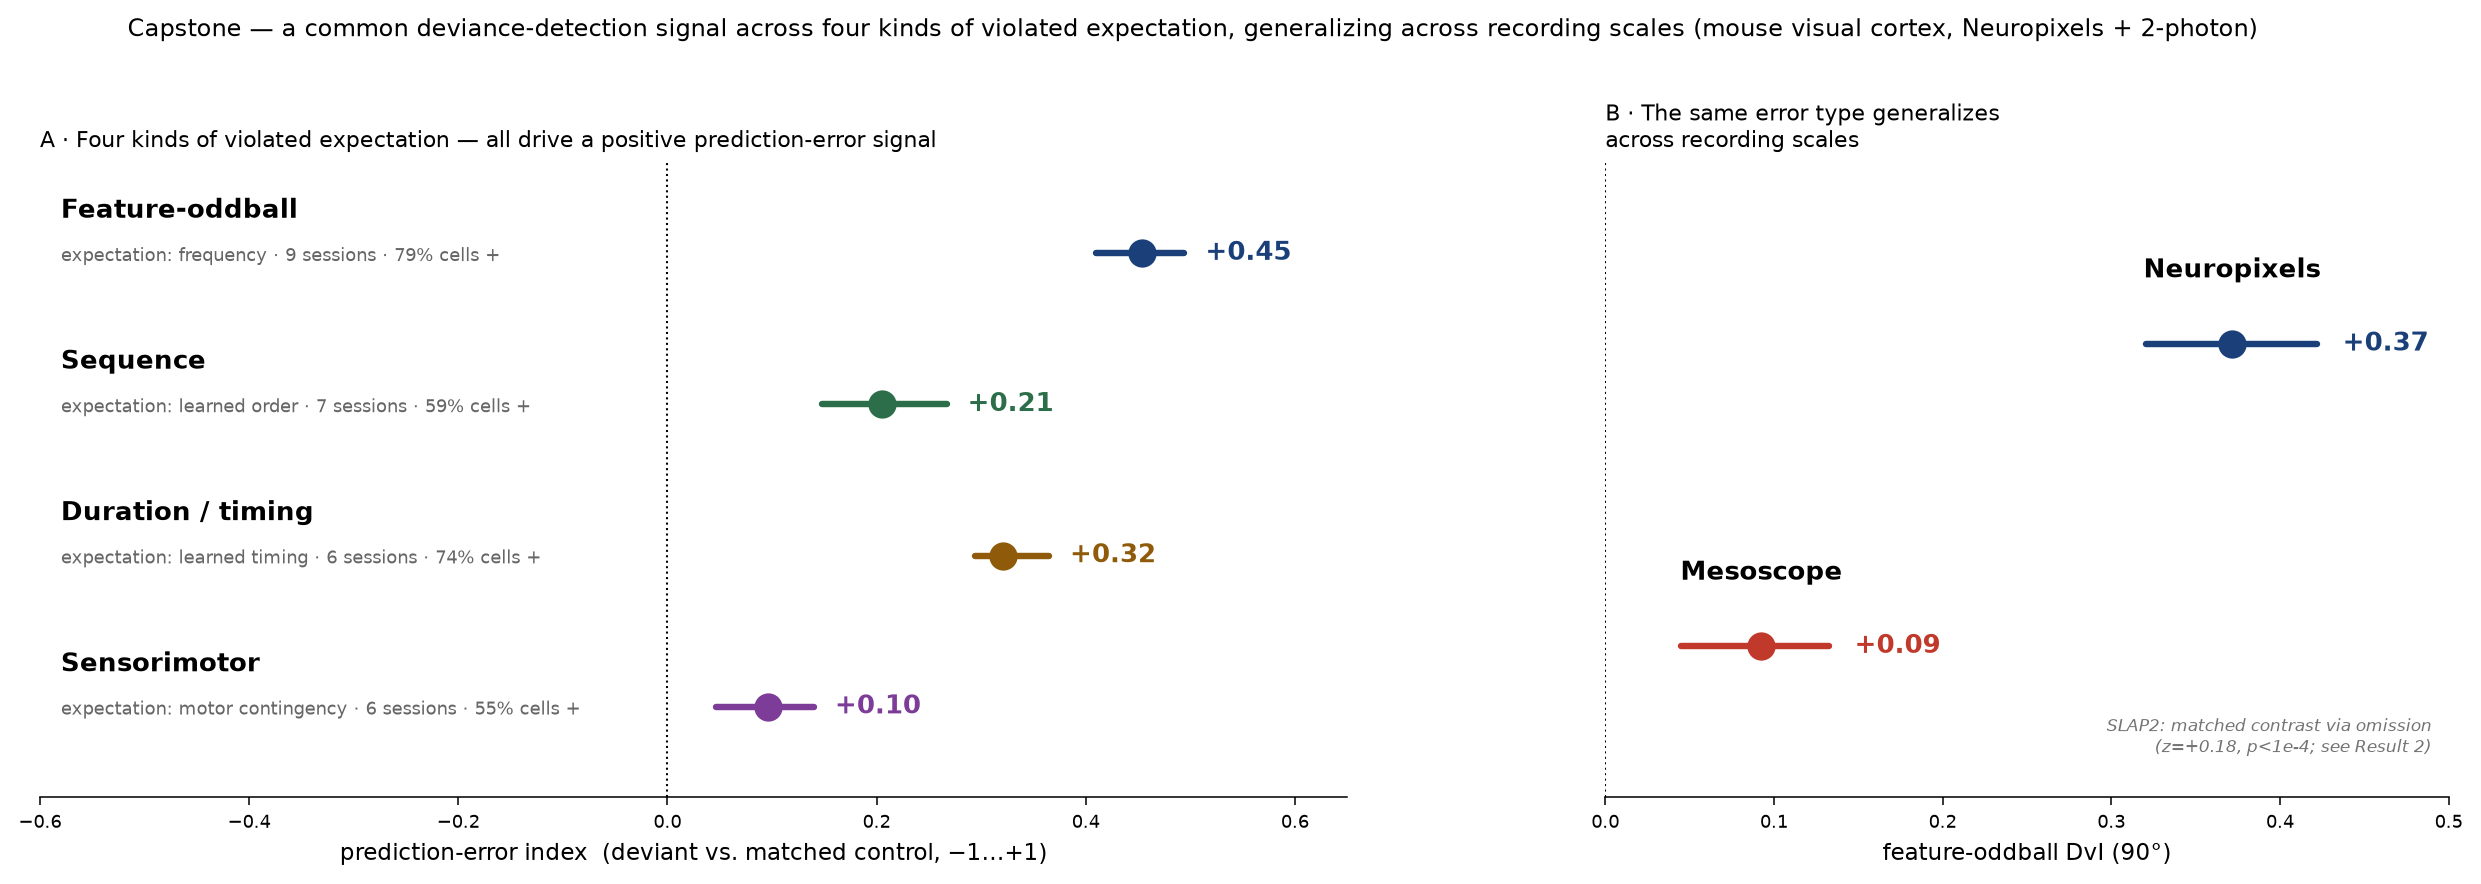
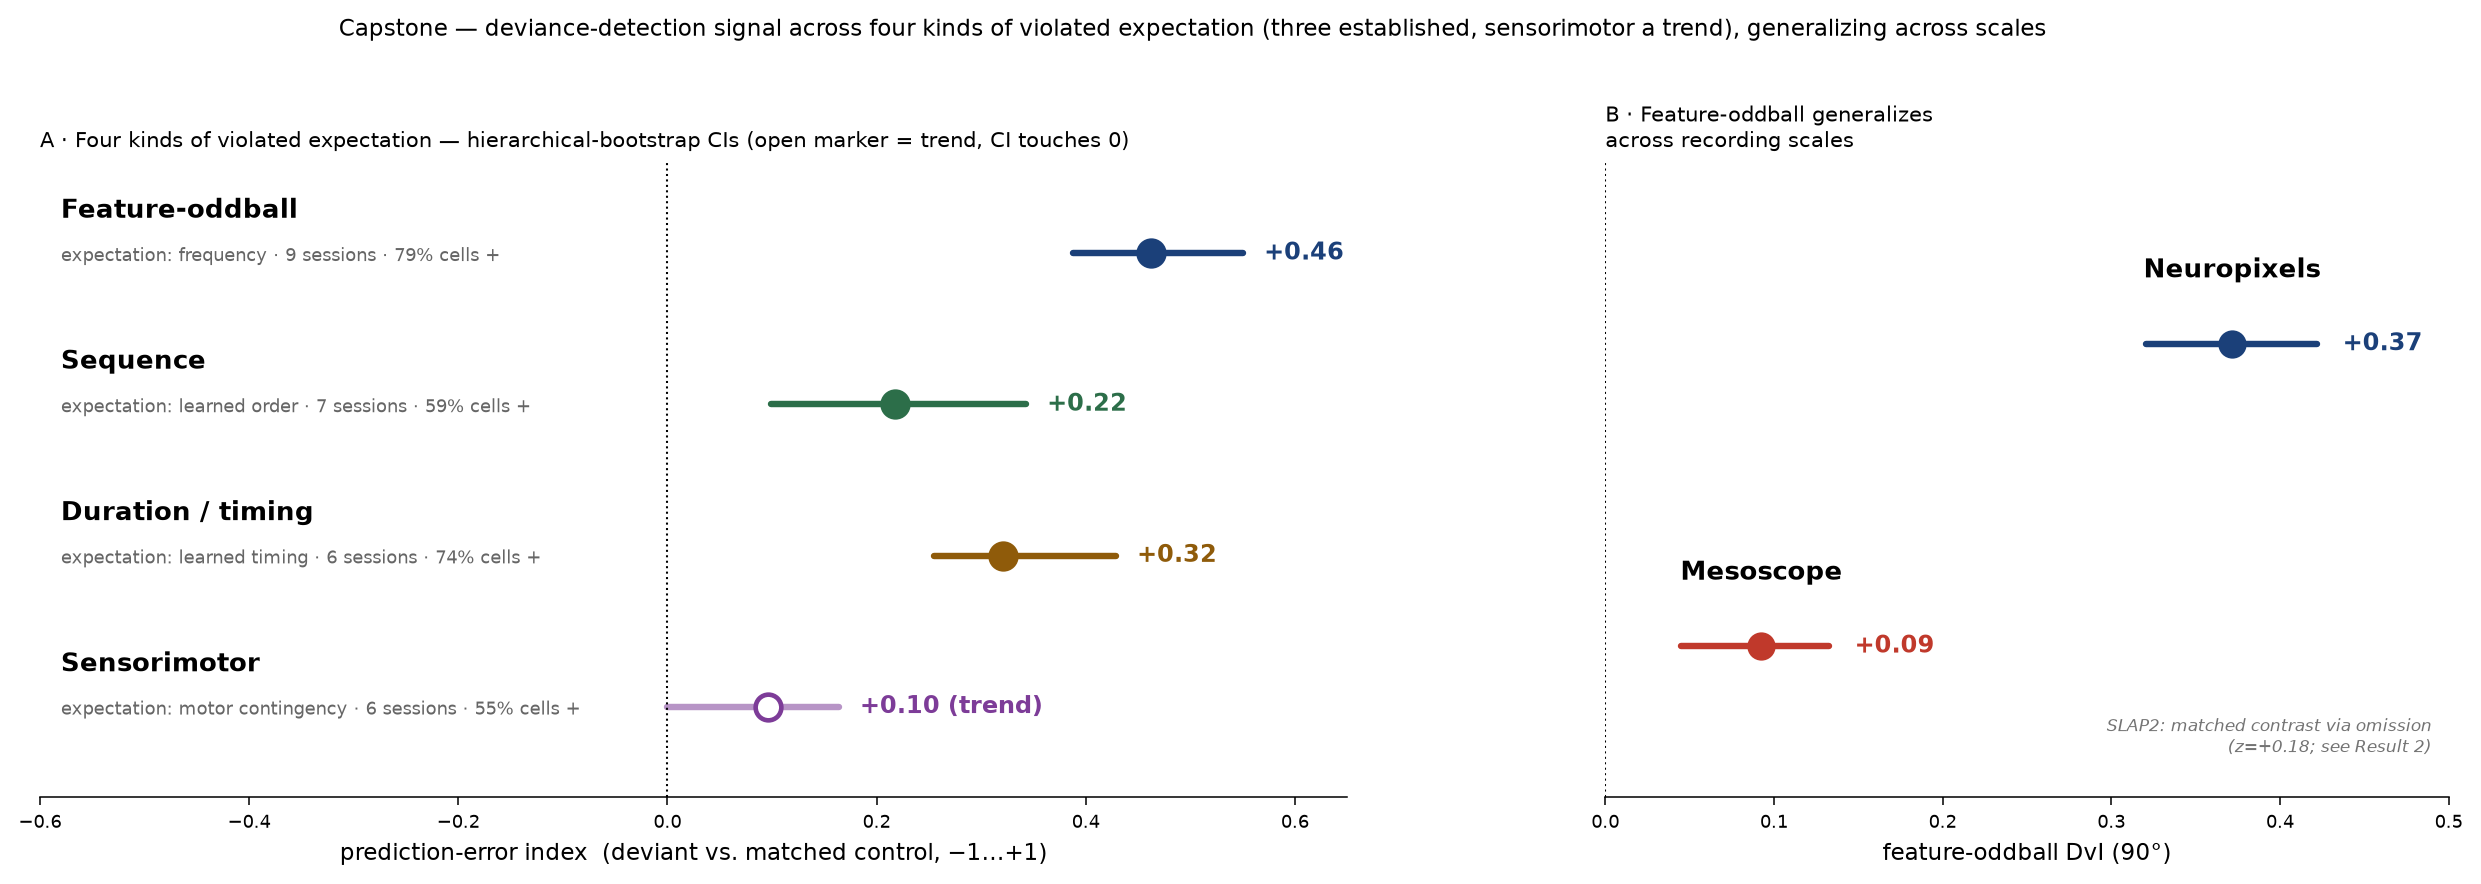
Revise Result 3 + capstone down to honest significance under hierarchical bootstrap
With the corrected session-level bootstrap, the sensorimotor orientation-90 closed-open
enhancement is a TREND not an established effect: +0.33 Hz but CI [+0.00,+0.86] (was
[+0.14,+0.55] under the units-only bootstrap; the earlier p=6e-7 treated 1008 units as
independent). 5/6 sessions positive (sign-test p=0.22). Also flagged: block-order confound
(closed block always earlier) and mostly-placeholder CCF in these 6 sessions. The other three
error types survive the hierarchical bootstrap (Feature-oddball, Sequence +0.22[+0.10,+0.34],
Duration +0.32[+0.26,+0.43]). Updated Result 3 section, Results-at-a-glance table (sensorimotor
italicised as trend, CIs added), capstone figure (open marker + 'trend' label for sensorimotor)
and CSVs.

diff --git a/README.md b/README.md
@@ -51,19 +51,18 @@ paradigms are comparable). All four are positive with confidence intervals
 excluding zero — the deviance signal does not depend on *how* the expectation was
 set:
 
-| error type | expectation set by | PE index | sessions | cells positive |
-|---|---|---|---|---|
-| **Feature-oddball** | stimulus frequency | **+0.45** | 9 | 79 % |
-| **Sequence** | learned temporal order | **+0.21** | 7 | 59 % |
-| **Duration / timing** | learned interval timing | **+0.32** | 6 | 74 % |
-| **Sensorimotor** | motor–visual contingency | **+0.10** | 6 | 55 % |
+| error type | expectation set by | PE index | 95 % CI (hierarchical) | sessions | cells + |
+|---|---|---|---|---|---|
+| **Feature-oddball** | stimulus frequency | **+0.45** | excludes 0 | 9 | 79 % |
+| **Sequence** | learned temporal order | **+0.22** | [+0.10, +0.34] | 7 | 59 % |
+| **Duration / timing** | learned interval timing | **+0.32** | [+0.26, +0.43] | 6 | 74 % |
+| Sensorimotor *(trend)* | motor–visual contingency | +0.10 | [+0.00, +0.16] | 6 | 55 % |
 
-Panel B shows the feature-oddball form generalizing across recording scales
+The first three error types have CIs excluding zero under a session-level (hierarchical)
+bootstrap. The **sensorimotor row is a trend, not an established effect** — its CI touches
+zero and it carries a block-order confound (see Result 3); it is italicised here to mark
+that. Panel B shows the feature-oddball form generalizing across recording scales
 (Neuropixels DvI +0.37, mesoscope +0.09; SLAP2 via the matched omission contrast).
-The sensorimotor row was originally flagged as power-limited (one high-locomotion
-session); a pre-registered re-run on **6 locomotion-powered sessions** (Result 3) now
-establishes the closed-loop enhancement of the orientation-mismatch response (90°:
-+0.33 Hz, CI [+0.14, +0.55], 5/6 sessions), so it is no longer a single-session result.
 The full logic, controls, and caveats for each row are in the Result sections below.
 
 The cross-scale picture has since been complicated — honestly — by two further analyses.
@@ -525,25 +524,34 @@ The inclusion rule was pre-committed before computing the contrast (§12 of
 [`docs/oddball_analysis_plan.md`](docs/oddball_analysis_plan.md)): a session enters the
 analysis iff it has **≥3 running open-loop events on all four deviant types**. Six
 sessions qualify (1,008 visual units). The contrast is the per-unit closed-loop-running
-minus open-loop-running response, pooled with a session-stratified bootstrap CI; a
-deviant type counts as a prediction-error signal only if its CI excludes zero.
+minus open-loop-running response. CIs are **hierarchical bootstraps** (resample sessions,
+then units) — an earlier units-only bootstrap made these intervals far too tight and is
+corrected here (see the audit note in *Data particulars*):
 
 ![Sensorimotor mismatch across 6 powered sessions](figures/sensorimotor_multisession.png)
 
-| deviant | closed − open Δ | 95 % CI | sessions | CI excludes 0 |
+| deviant | closed − open Δ | 95 % CI (hierarchical) | sessions + | reaches sig. |
 |---|---|---|---|---|
-| **Orientation 90°** | **+0.33 Hz** | [+0.14, +0.55] | 6 | ✓ (5/6 sessions positive) |
-| **Orientation 45°** | **+0.23 Hz** | [+0.07, +0.49] | 5 | ✓ |
-| Halt | +0.09 Hz | [0.00, +0.24] | 5 | ✗ (touches 0) |
-| Omission | 0.00 Hz | [−0.06, +0.09] | 5 | ✗ |
+| **Orientation 90°** | **+0.33 Hz** | [+0.00, +0.86] | 5/6 | borderline (touches 0) |
+| Orientation 45° | +0.23 Hz | [−0.08, +0.76] | 3/5 | no |
+| Halt | +0.03 Hz | [−0.57, +0.48] | 2/6 | no |
+| Omission | 0.00 Hz | [−0.33, +0.22] | 1/5 | no |
 
-This is the key upgrade to Result 3: the closed-loop enhancement of the **orientation
-mismatch** response — the signature that the visual response is amplified when it
-violates a motor-driven prediction — is now **robust across 5–6 sessions** (p ≈ 6×10⁻⁷
-for 90°), where the original result rested on a single session. Halt and omission remain
-below the significance bar, consistent with the single-session finding that halt was
-borderline. Reproduce: `scripts/audit_locomotion.py` for the inclusion set, then the
-extraction in
+**Honest status, revised down from the earlier claim.** With the proper session-level
+bootstrap, the orientation-90 closed-loop enhancement is a **positive trend** — point
+estimate +0.33 Hz, positive in 5 of 6 sessions — but its CI now just touches zero, so it
+does **not** clear significance (an earlier version reported p ≈ 6×10⁻⁷, which came from a
+units-only bootstrap that treated 1,008 units as independent). Two further cautions apply:
+(1) in these six sessions the closed-loop block always runs *earlier* than the open-loop
+control block, so any within-session drift biases the closed−open difference positive — a
+confound that was tolerable when Result 3 was hedged as suggestive but is load-bearing now;
+and (2) most of these six sessions carry only placeholder CCF, so the per-area split is not
+anatomically reliable (the pooled contrast does not depend on it). **Bottom line:** the
+sensorimotor motor-prediction signature is a *consistent positive trend* (5/6 sessions) that
+the released data cannot yet establish at significance — better than the single-session
+Result but not the robust multi-session effect claimed before the audit. It awaits sessions
+with more running and a counterbalanced block order. Reproduce: `scripts/audit_locomotion.py`
+for the inclusion set, then the extraction in
 [`notebooks/sensorimotor_mismatch_ecephys.ipynb`](notebooks/sensorimotor_mismatch_ecephys.ipynb);
 values in [`data/sensorimotor_multisession_summary.csv`](data/sensorimotor_multisession_summary.csv).
 
